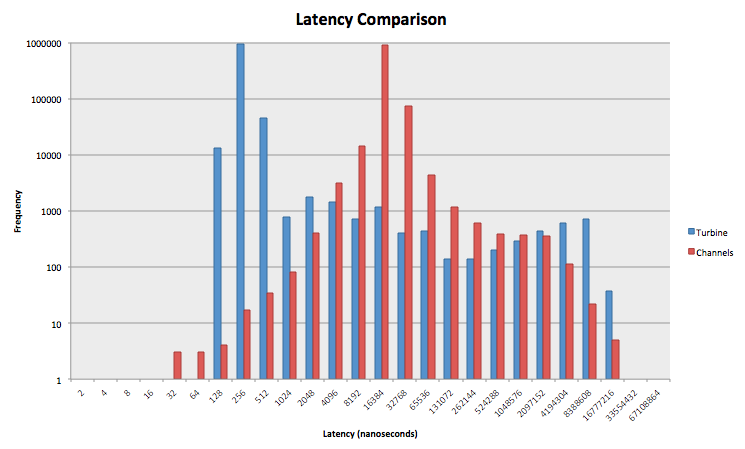
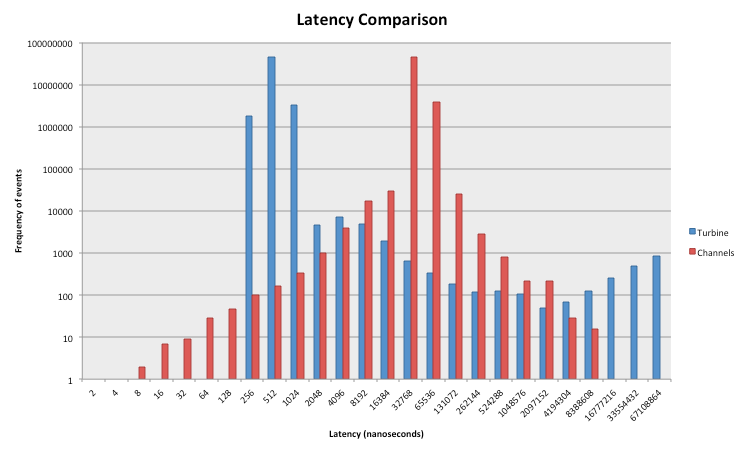
[DOCS] Update readme and graphs with results from external tests

diff --git a/README.md b/README.md
@@ -109,13 +109,15 @@ For this reason, many of the methods that it exposes are unsafe and are wrapped 
 ### Performance
 Turbine has not been tuned or optimized yet, and there are still a lot of ugly debug lines laying around.  That said, it's already pretty darn fast.
 
-On my Macbook Air, Turbine sustains ~30m messages per second between threads (passing simple integers).  In comparison, channels max out around 4-7m messages per second.
+On my Macbook Air, Turbine sustains ~30m messages per second between threads (passing 100m integers between tasks).  In comparison, channels max out around 4-7m messages per second.
 
-Perhaps more interesting is latency.  Below is a log-log plot of latency (in nanoseconds) for Turbine and channels.  Latency was measured by sending a single event and pausing for 10 microseconds, which helps assure that neither communication method is saturated with events.
+![](turbine3.png)
+
+Perhaps more interesting is latency.  Below is a log-log plot of latency (in nanoseconds) for Turbine and channels.  Latency was measured by sending a single event and pausing for 10 microseconds, which helps assure that neither communication method is saturated with events.  The test was repeated for 100m iterations.
 
 ![](turbine1.png)
 
-Turbine averages around 250ns per message, while channels average around 16,000ns (16 microseconds).  Because log-log plots are sometimes hard to interpret, here is a log-linear plot.  The x-axis is still logarithmic, but the frequency on the y-axis is linear:
+Turbine averages around 512ns per message, while channels average around 32,000ns (32 microseconds).  Because log-log plots are sometimes hard to interpret, here is a log-linear plot.  The x-axis is still logarithmic, but the frequency on the y-axis is linear:
 
 ![](turbine2.png)
 
